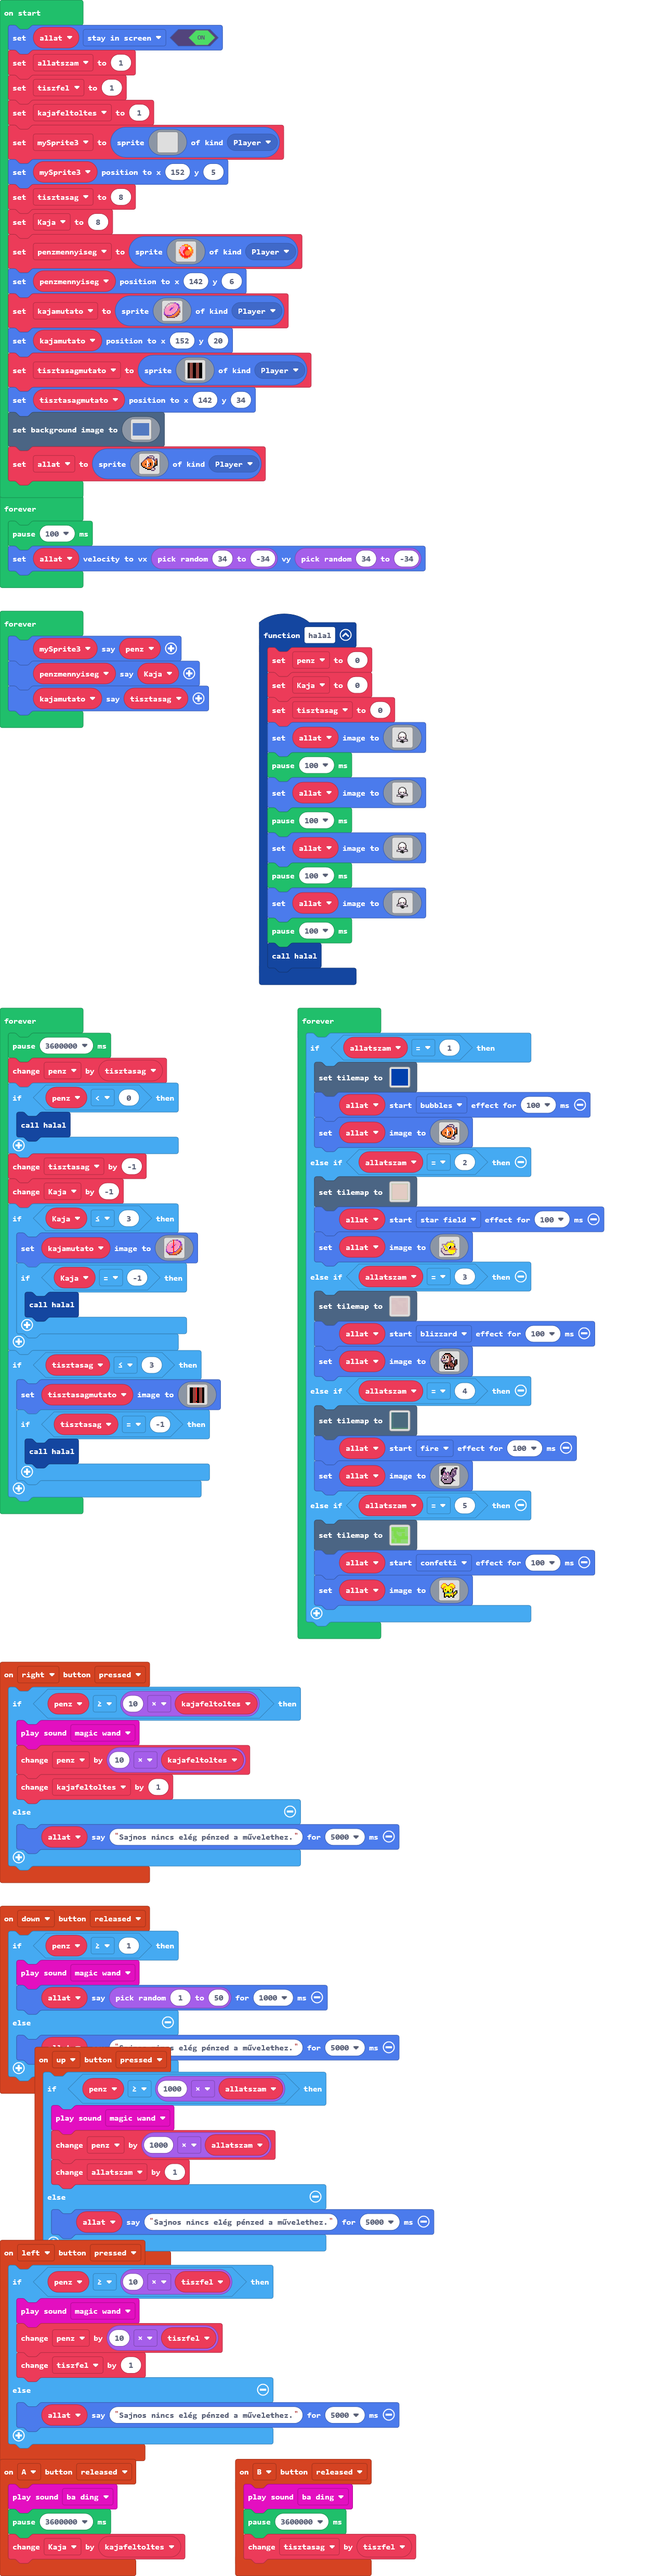
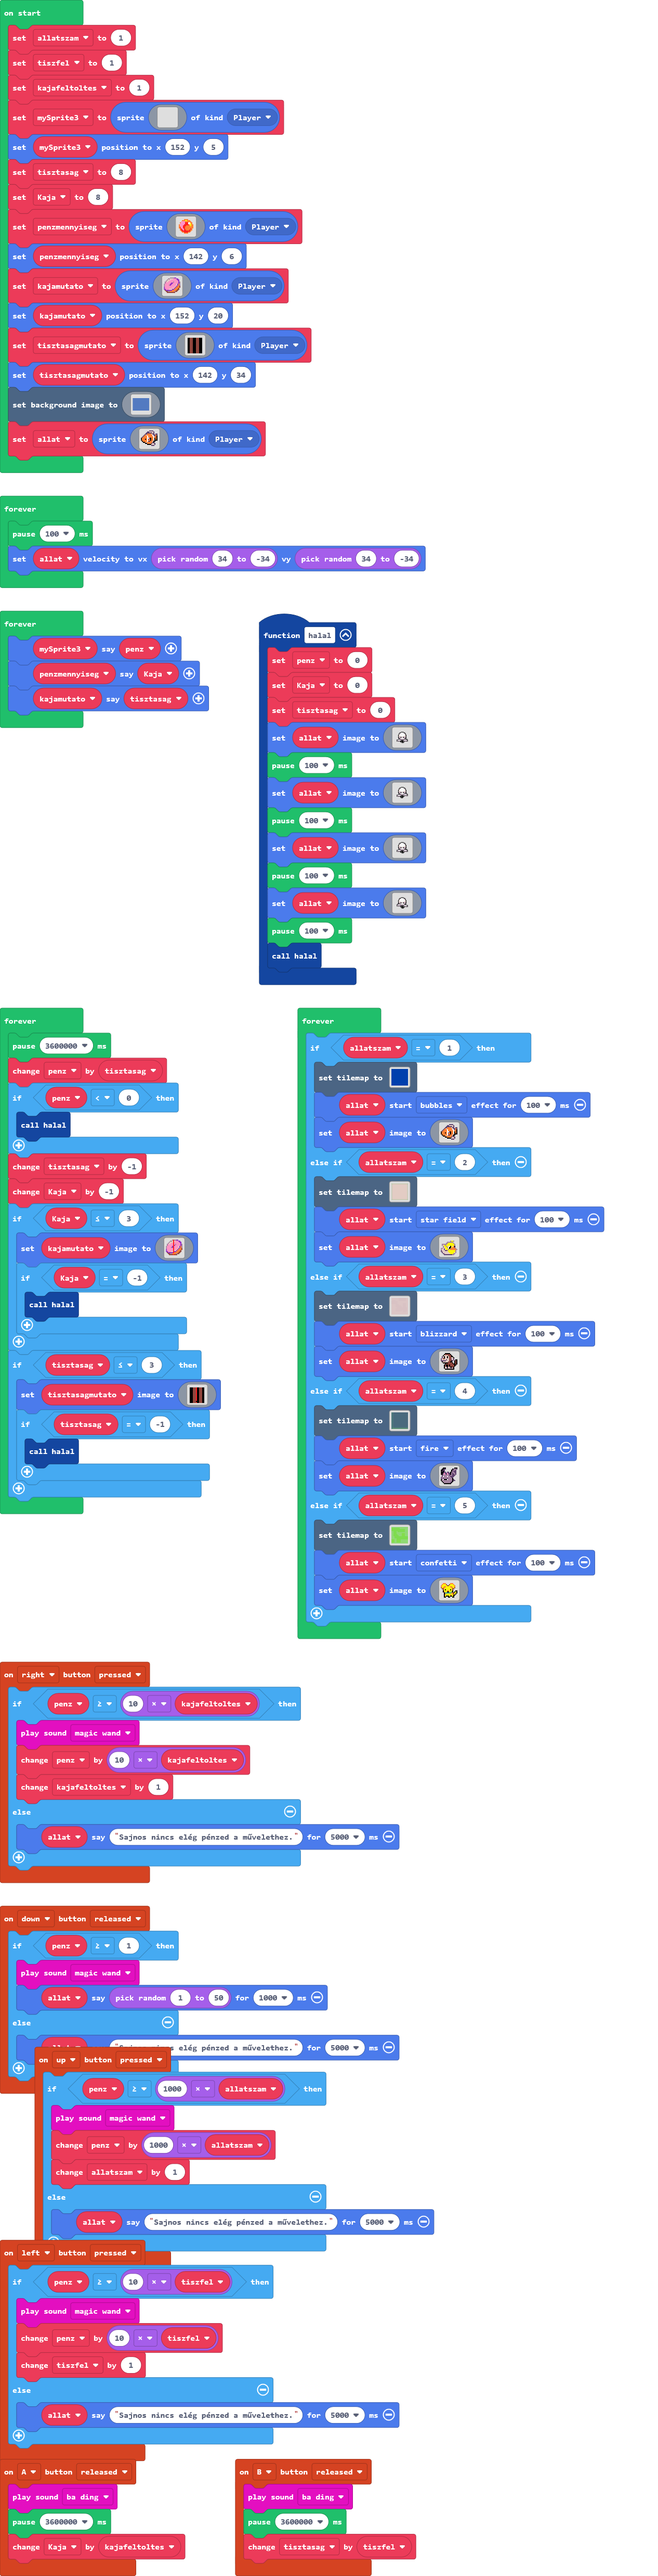
Update main.blocks, main.ts

Changed region(s): [[0.0, 0.0, 0.4929, 0.2178]]

diff --git a/main.ts b/main.ts
@@ -158,13 +158,12 @@ controller.B.onEvent(ControllerButtonEvent.Released, function () {
     tisztasag += tiszfel
 })
 let penz = 0
+let allat: Sprite = null
 let Kaja = 0
 let tisztasag = 0
 let kajafeltoltes = 0
 let tiszfel = 0
 let allatszam = 0
-let allat: Sprite = null
-allat.setFlag(SpriteFlag.StayInScreen, true)
 allatszam = 1
 tiszfel = 1
 kajafeltoltes = 1
